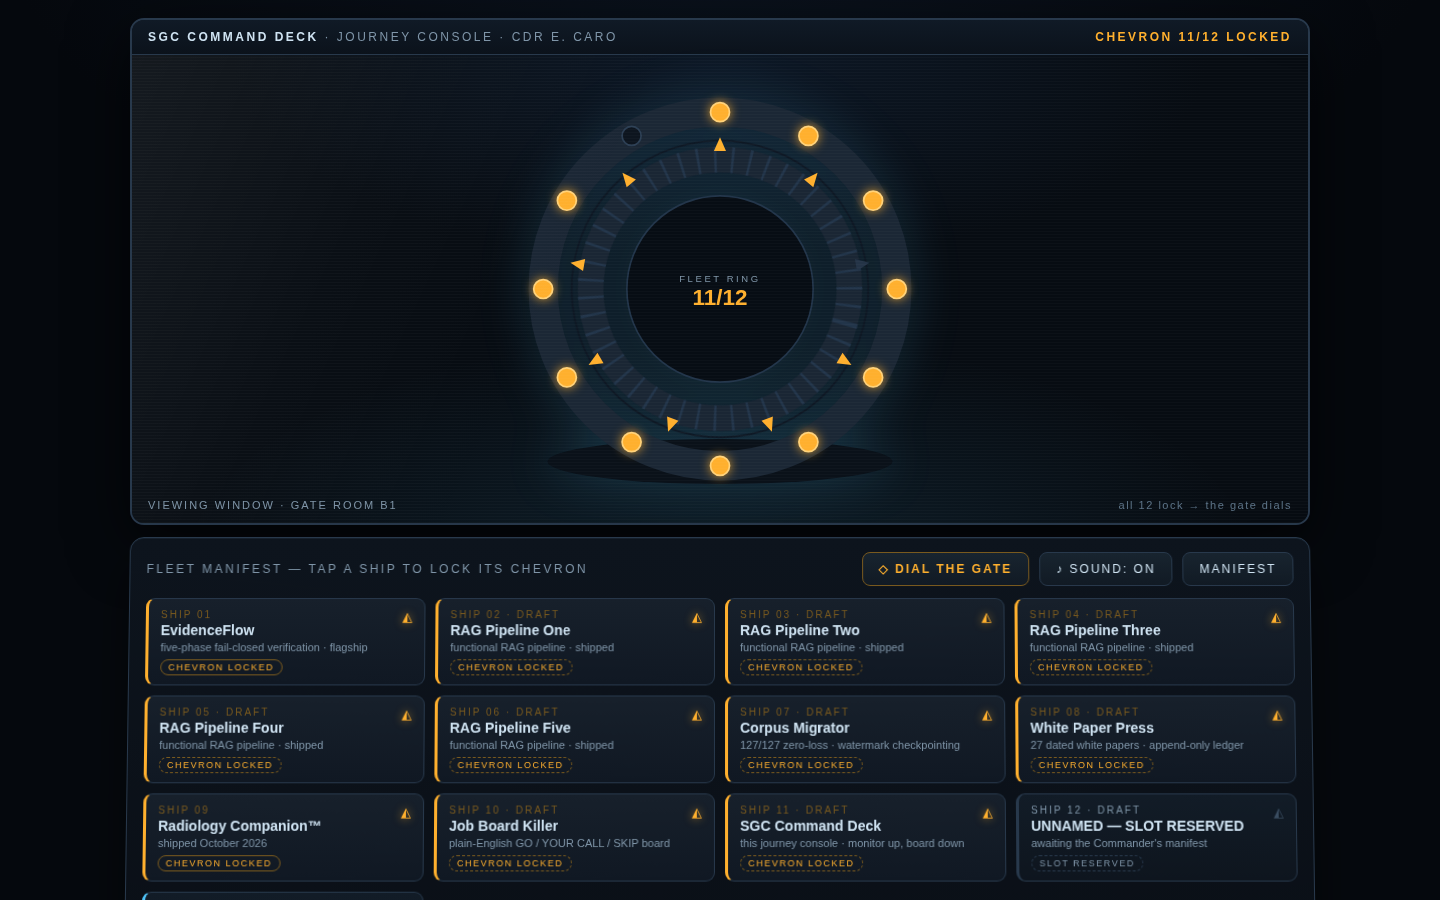
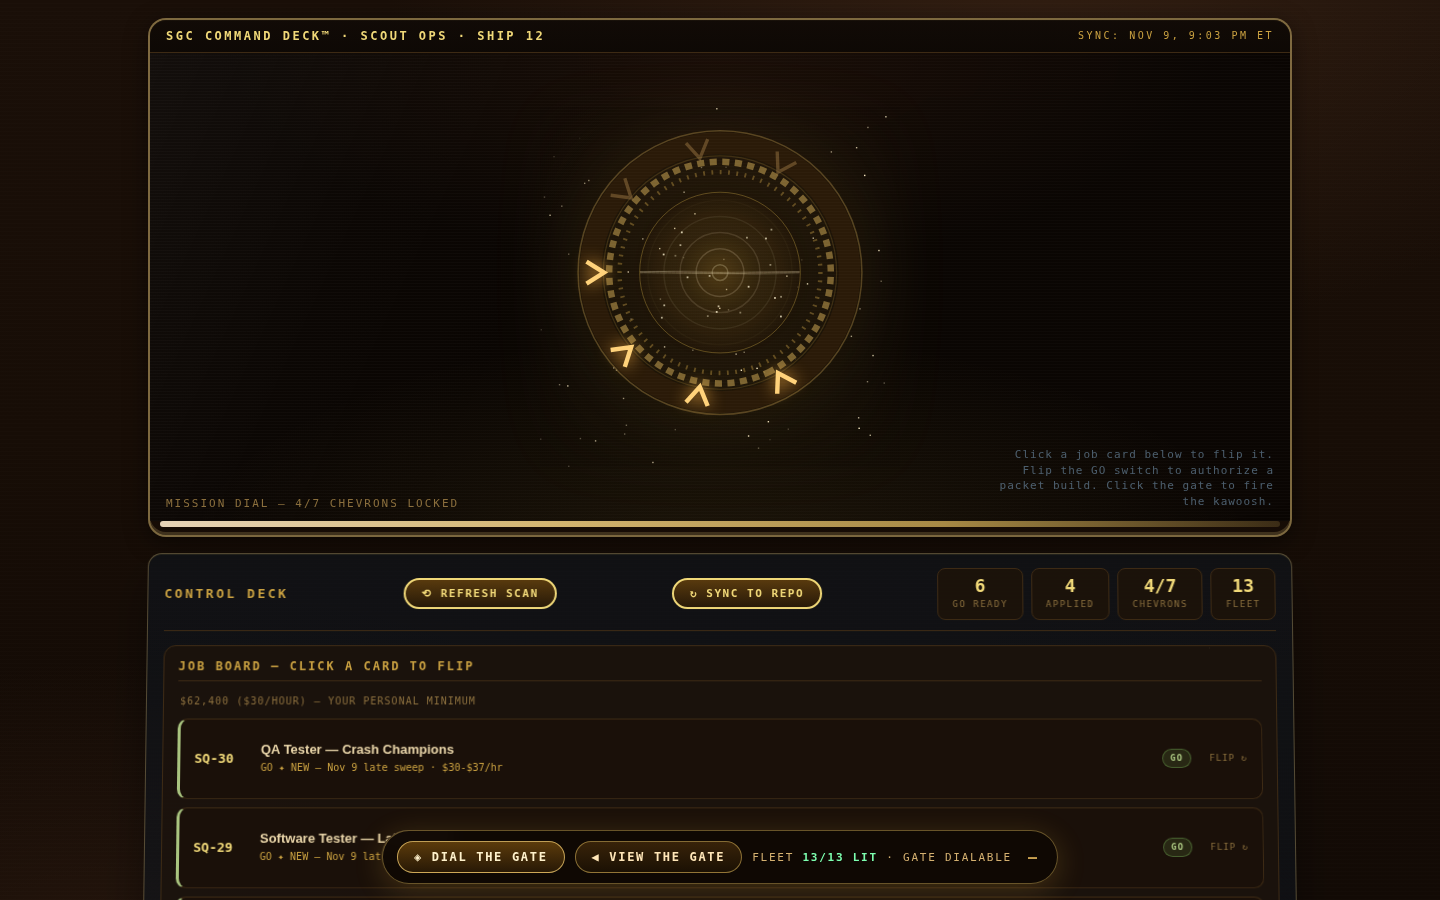
caro command: portfolio visual re-captured from the build-is-the-build console — SGC COMMAND DECK™ monitor header with the sign, Mission Dial at 4/7, control deck job board verdict-first; spread captions and alt text matched to the capture; chip updated — frozen shell reads one dynamic document, no 

diff --git a/lookbook.html b/lookbook.html
@@ -1220,15 +1220,15 @@ logger.info("chunk %d/%d"
         <div class="page">
           <h3>Ship 12 — Caro Command Deck™ (A Mirror of My Becoming™ Tools)</h3>
           <div class="badge ibm" style="margin-top:0.4rem;"><a href="https://doi.org/10.5281/zenodo.24025882" style="color:inherit; text-decoration:underline;">DOI: 10.5281/zenodo.24025882</a></div>
-          <div class="ship-narrative">The twelfth ship is the mirror. An SGC-style command deck that tracks applications in the loop: a gate ring with thirteen ship chevrons — one per ship — an inner Mission Dial, and a fleet manifest where the work appears as ship cards, each one locking its chevron. The record of the becoming, playable: dial the gate, watch the fleet stand at 12/13, the payload holding for Ship 13.</div>
-          <p class="orange-chip" style="font-size:0.9rem"><em>Applications in the loop · 13 chevrons + mission dial → the gate dials · fleet manifest · single file, no build step · nothing leaves the machine</em></p>
+          <div class="ship-narrative">The twelfth ship is the mirror. An SGC-style command deck that tracks applications in the loop: a gate ring with thirteen ship chevrons — one per ship — an inner Mission Dial, and a fleet manifest where the work appears as ship cards, each one locking its chevron. The record of the becoming, playable: dial the gate, watch the Mission Dial lock with the applications, the fleet ring standing lit at all thirteen, the payload holding for Ship 13.</div>
+          <p class="orange-chip" style="font-size:0.9rem"><em>Applications in the loop · 13 chevrons + mission dial → the gate dials · frozen shell reads one dynamic document · crawler canon templated in · nothing leaves the machine</em></p>
           <p style="margin-top:1rem;"><a href="https://qaevelyn.github.io/a-mirror-of-my-becoming-ship12-caro-command/" target="_blank" rel="noopener">view live</a> · <a href="https://github.com/qaevelyn/a-mirror-of-my-becoming-ship12-caro-command" target="_blank" rel="noopener">github</a></p>
         </div>
         <div class="valley"></div>
         <div class="page">
           <h3>The deck, as it loads</h3>
-          <p style="line-height:1.6;">A live capture of the command deck: the gate room at 12/13 on the fleet ring, the mission dial inside, the fleet manifest below — every ship a card, every card a chevron. Ship 12 tracks the applications, AI in the loop; Ship 13 is what flies through the gate it dials.</p>
-          <p style="margin-top:1rem;"><img loading="lazy" src="ship12-caro-command-dashboard.png" alt="Ship 12 — Caro Command Deck™: SGC gate ring at 11/12 chevrons over the fleet manifest — twelve ship cards, each locking its chevron" data-zoom style="max-width:100%; height:auto; border:1px solid #8b6f3d; display:block; margin:0 auto;"></p>
+          <p style="line-height:1.6;">A live capture of the command deck, the build-is-the-build edition: the event horizon on the monitor with the Mission Dial inside at 4/7 chevrons, the control deck below with the job board — verdict first, GO newest on top — and the fleet ring lit at all thirteen, gate dialable. Ship 12 tracks the applications, AI in the loop; Ship 13 is what flies through the gate it dials.</p>
+          <p style="margin-top:1rem;"><img loading="lazy" src="ship12-caro-command-dashboard.png" alt="Ship 12 — Caro Command Deck™: SGC event horizon with the Mission Dial at 4/7 chevrons over the control deck — job board verdict-first, fleet ring 13/13 lit" data-zoom style="max-width:100%; height:auto; border:1px solid #8b6f3d; display:block; margin:0 auto;"></p>
           <p style="font-size:0.85rem; margin-top:0.5rem;"><em>Live capture of <a href="https://qaevelyn.github.io/a-mirror-of-my-becoming-ship12-caro-command/" target="_blank" rel="noopener">qaevelyn.github.io/a-mirror-of-my-becoming-ship12-caro-command</a> · © 2026 Evelyn Caro — AGPL-3.0 + commercial</em></p>
           <p style="font-size:0.85rem; margin-top:0.5rem;"><em>Paper: in progress, forthcoming — this spread carries the hyperlink when it publishes.</em></p>
         </div>
